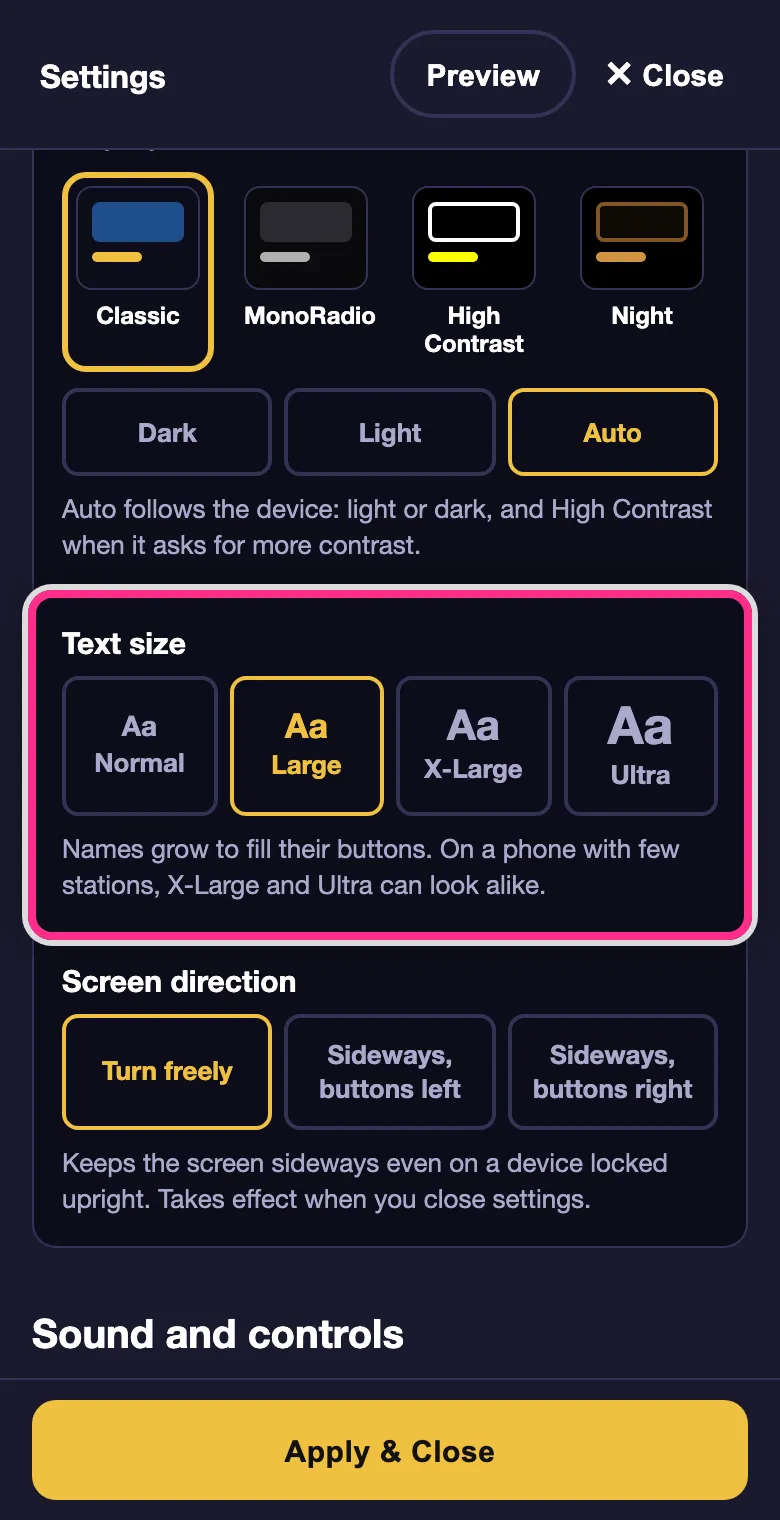
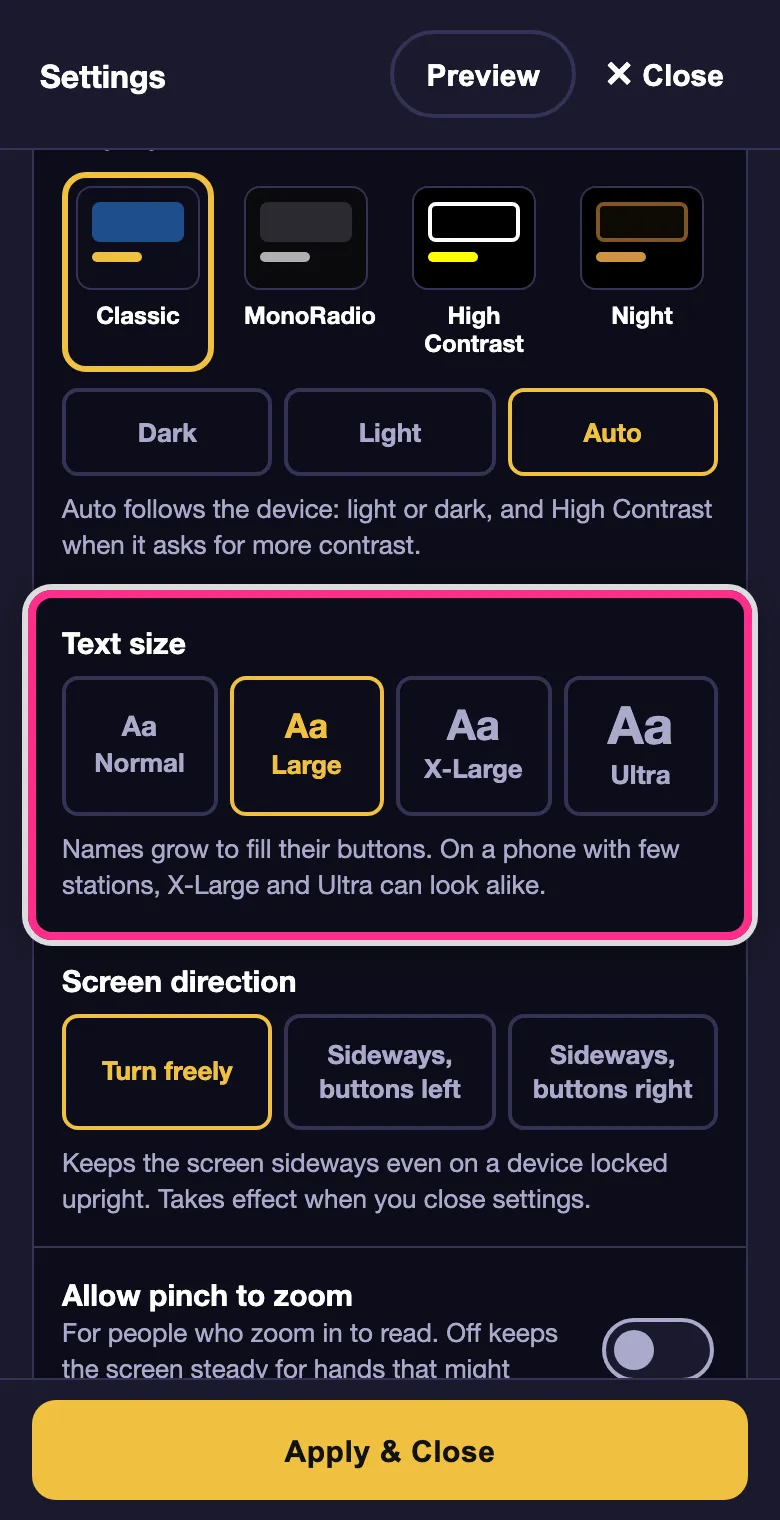
radio: sync RadioGridXL v7.22.0 (b3de25e)

diff --git a/public/radio/index.html b/public/radio/index.html
@@ -3,7 +3,7 @@
 <head>
 <meta charset="UTF-8">
 <meta http-equiv="Content-Security-Policy" content="default-src 'self'; object-src 'none'; script-src 'self' 'unsafe-inline'; style-src 'self' 'unsafe-inline'; img-src 'self' data:; media-src http: https: blob:; connect-src 'self' https://*.api.radio-browser.info; frame-src https://marsh.city; base-uri 'none'; form-action 'none'">
-<meta name="viewport" content="width=device-width, initial-scale=1.0, maximum-scale=1.0, user-scalable=no, viewport-fit=cover">
+<meta name="viewport" id="viewport-meta" content="width=device-width, initial-scale=1.0, maximum-scale=1.0, user-scalable=no, viewport-fit=cover">
 <!-- PWA shell: relative manifest href keeps the file fully self-contained (no http URLs). -->
 <link rel="manifest" href="manifest.json">
 <meta name="theme-color" content="#0d0d1a">
@@ -572,6 +572,27 @@ html.is-desktop:not(.fill-view) #platform-badge { display: block; }
 
 
 /* --- HEADER --- */
+
+#settings-btn {
+  display: flex;
+  align-items: center;
+  gap: 6px;
+  min-height: 44px;
+  min-width: 44px;
+  padding: 0 14px;
+  margin-left: 12px;
+  border-radius: 10px;
+  border: 2px solid var(--header-text);
+  background: transparent;
+  color: var(--header-text);
+  font: inherit;
+  font-size: 16px;
+  font-weight: 700;
+  cursor: pointer;
+}
+#settings-btn[hidden] { display: none; } /* display:flex above would beat the hidden attribute */
+#settings-btn svg { width: 20px; height: 20px; flex-shrink: 0; }
+#settings-btn:focus-visible { outline: 3px solid var(--header-text); outline-offset: 2px; }
 
 #header {
   display: flex;
@@ -1199,6 +1220,14 @@ html[data-size="ultra"] #simple-stop-label { font-size: 32px; }
   right: calc(18px + env(safe-area-inset-right, 0px));
 }
 #adv-transport.has-playing .adv-sleep-btn { color: var(--stop-active-text); }
+/* A recording shows Back and Skip too, and on a phone that row ran under the
+   sleep button (it overlaps up to about 490 px in Chromium; the margin is for
+   other engines' fonts). There the bar grows a second row for Sleep alone,
+   so every control keeps its name. Live radio shows no skip and keeps one row. */
+@media (max-width: 539px) {
+  #adv-transport.skippable { padding-bottom: calc(10px + 54px + env(safe-area-inset-bottom, 0px)); }
+  #adv-transport.skippable .adv-sleep-btn { bottom: calc(6px + env(safe-area-inset-bottom, 0px)); }
+}
 
 /* Skip action toast (e.g. "Back 15s") */
 #skip-toast {
@@ -2171,7 +2200,7 @@ html.theme-fading, html.theme-fading * {
 @media (max-height: 520px) {
   .stream-browser-results { flex: none; max-height: none; min-height: 0; overflow-y: visible; }
 }
-.stream-browser-title:focus { outline: none; } /* focused by script only, never by Tab */
+.stream-browser-title:focus, #settings-title:focus { outline: none; } /* focused by script only, never by Tab */
 .stream-browser-title {
   font-size: 15px;
   font-weight: 700;
@@ -2674,7 +2703,8 @@ html.theme-fading, html.theme-fading * {
       <svg id="logo-svg" viewBox="0 0 100 100" xmlns="http://www.w3.org/2000/svg" aria-hidden="true"></svg>
       <h1 id="org-name">RadioGridXL</h1>
     </div>
-    <div id="conn-dot" role="status" aria-live="polite" aria-label="Connection: idle"><span id="conn-text" class="sr-only">Connection: idle</span></div>
+    <div id="conn-dot" aria-hidden="true"></div>
+    <span id="conn-text" class="sr-only" role="status" aria-live="polite">Connection: idle</span>
     <!-- Not a live region: a screen reader reads the time left when someone
          swipes to it, from text updated once a minute. The ticking seconds
          are hidden from it, or it would read them out over the radio. That
@@ -2684,6 +2714,10 @@ html.theme-fading, html.theme-fading * {
     <!-- Confirms setting or cancelling the timer, once. Never written when the timer ends. -->
     <span id="sleep-status" class="sr-only" role="status" aria-live="polite"></span>
     <span id="platform-badge" aria-hidden="true">Desktop Preview</span>
+    <!-- Shown by the "Show a Settings button" switch: one tap into settings
+         (through the PIN pad when there's a PIN) for anyone who can't do
+         five taps on the logo, such as a switch or voice user. -->
+    <button type="button" id="settings-btn" hidden onclick="requestSettings()"><svg viewBox="0 0 24 24" aria-hidden="true" focusable="false"><path fill="currentColor" d="M19.4 13a7.6 7.6 0 0 0 0-2l2.1-1.6-2-3.5-2.5 1a7.4 7.4 0 0 0-1.7-1L15 3.3h-4l-.4 2.6a7.4 7.4 0 0 0-1.7 1l-2.5-1-2 3.5L6.6 11a7.6 7.6 0 0 0 0 2l-2.1 1.6 2 3.5 2.5-1a7.4 7.4 0 0 0 1.7 1l.4 2.6h4l.4-2.6a7.4 7.4 0 0 0 1.7-1l2.5 1 2-3.5zM13 15.5a3.5 3.5 0 1 1 0-7 3.5 3.5 0 0 1 0 7z" transform="translate(-1 0)"/></svg>Settings</button>
   </header>
 
   <!-- ========== STREAM BUTTONS (rendered by JS) ========== -->
@@ -2788,7 +2822,7 @@ html.theme-fading, html.theme-fading * {
   <!-- ========== SETTINGS PANEL (technician only) ========== -->
   <aside id="settings-panel" role="dialog" aria-labelledby="settings-title" aria-modal="true">
     <div id="settings-header">
-      <span id="settings-title">Settings</span>
+      <span id="settings-title" tabindex="-1">Settings</span>
       <div id="settings-header-actions">
         <button id="settings-preview" onclick="startPreview()">Preview</button>
         <button id="settings-close" onclick="closeSettings()" aria-label="Close settings"><span aria-hidden="true">&#215;</span><span class="close-word" aria-hidden="true">Close</span></button>
@@ -2873,6 +2907,14 @@ html.theme-fading, html.theme-fading * {
           </div>
           <div class="s-hint">Keeps the screen sideways even on a device locked upright. Takes effect when you close settings.</div>
         </div>
+
+        <div class="s-section s-switch-row">
+          <div class="s-switch-text" aria-hidden="true">
+            <div class="s-section-title" id="zoom-label">Allow pinch to zoom</div>
+            <div class="s-hint" id="zoom-hint">For people who zoom in to read. Off keeps the screen steady for hands that might pinch by accident.</div>
+          </div>
+          <button type="button" class="s-switch" role="switch" data-switch="zoom" aria-checked="false" aria-labelledby="zoom-label" aria-describedby="zoom-hint" onclick="toggleSwitch(this)"><span class="s-switch-knob"></span></button>
+        </div>
       </div>
     </section>
 
@@ -2940,6 +2982,14 @@ html.theme-fading, html.theme-fading * {
     <section class="s-group">
       <h2 class="s-group-title" id="g-setup">Setup</h2>
       <div class="s-card">
+        <div class="s-section s-switch-row">
+          <div class="s-switch-text" aria-hidden="true">
+            <div class="s-section-title" id="settingsbtn-label">Show a Settings button</div>
+            <div class="s-hint" id="settingsbtn-hint">For people setting up their own radio by voice, switch or screen reader. Set a PIN if the listener shouldn't change things.</div>
+          </div>
+          <button type="button" class="s-switch" role="switch" data-switch="settingsButton" aria-checked="false" aria-labelledby="settingsbtn-label" aria-describedby="settingsbtn-hint" onclick="toggleSwitch(this)"><span class="s-switch-knob"></span></button>
+        </div>
+
         <div class="s-section">
           <label class="s-section-title" for="in-org-name">Name in the header</label>
           <textarea class="s-input" id="in-org-name" rows="2" maxlength="80" style="resize:none;font-family:inherit;" aria-describedby="org-hint" oninput="previewOrgName()" onfocus="caretToEnd(this)"></textarea>
@@ -3006,7 +3056,7 @@ html.theme-fading, html.theme-fading * {
         </div>
       </div>
       <button id="reset-btn" onclick="confirmReset()">Reset to Defaults</button>
-      <div id="settings-version">RadioGridXL v7.21.1</div>
+      <div id="settings-version">RadioGridXL v7.22.0</div>
       <!-- Who made it, from PROFILE.madeBy; plain text, never a link (promise-stays-radio). -->
       <div id="settings-credit" hidden></div>
     </section>
@@ -3255,6 +3305,8 @@ const cfg = {
   tts: 'off',
   chime: 'on',
   resume: 'off',
+  zoom: 'off',
+  settingsButton: 'off',
   preset: 'Standard',
   orientation: PROFILE.orientation || 'auto',
   streams: JSON.parse(JSON.stringify(PROFILE.streams))
@@ -3371,8 +3423,7 @@ function init() {
 
   // Apply max volume cap
   audio.volume = cfg.volume / 100;
-  document.getElementById('vol-slider').value = cfg.volume;
-  document.getElementById('vol-val').textContent = cfg.volume + '%';
+  showVolume();
 
   // Desktop-specific adjustments. (There is no longer a volume overlay — the
   // volume control lives in Settings — so don't reference the removed
@@ -3527,6 +3578,8 @@ function validateConfig(s) {
   if (['on', 'off'].includes(s.tts))                    out.tts = s.tts;
   if (['on', 'off'].includes(s.chime))                  out.chime = s.chime;
   if (['on', 'off'].includes(s.resume))                 out.resume = s.resume;
+  if (['on', 'off'].includes(s.zoom))                   out.zoom = s.zoom;
+  if (['on', 'off'].includes(s.settingsButton))         out.settingsButton = s.settingsButton;
   // Accessibility preset name. Allowlist = built-in preset names + 'custom'.
   // Unknown/legacy values are simply omitted (fall back to the 'Standard'
   // default) — purely a UI highlight hint, never drives behavior on its own.
@@ -3629,6 +3682,8 @@ function saveSettings() {
       tts: cfg.tts,
       chime: cfg.chime,
       resume: cfg.resume,
+      zoom: cfg.zoom,
+      settingsButton: cfg.settingsButton,
       preset: cfg.preset,
       orientation: cfg.orientation,
       streams: cfg.streams
@@ -3724,7 +3779,19 @@ function applyTheme() {
     themeColorMeta.setAttribute('content', headerBg || DEFAULT_THEME_COLOR);
   }
   document.documentElement.setAttribute('data-size', cfg.size);
+  applyAccessOptions(); // every load, apply, revert, import and reset path runs through here
   renderButtons();
+}
+
+const FIXED_VIEWPORT = 'width=device-width, initial-scale=1.0, maximum-scale=1.0, user-scalable=no, viewport-fit=cover';
+const ZOOMABLE_VIEWPORT = 'width=device-width, initial-scale=1.0, viewport-fit=cover';
+
+/** The two Setup switches that change the page itself: pinch-zoom (the
+    viewport, rewritten live; browsers re-read it) and the header's Settings
+    button. */
+function applyAccessOptions() {
+  document.getElementById('viewport-meta').setAttribute('content', cfg.zoom === 'on' ? ZOOMABLE_VIEWPORT : FIXED_VIEWPORT);
+  document.getElementById('settings-btn').hidden = cfg.settingsButton !== 'on';
 }
 
 /** Where to change the speaking voice on this device. Only the APK has an
@@ -4296,6 +4363,12 @@ function updateSkipButtons() {
   const skippable = canSkip();
   skipBackBtn.style.display = skippable ? '' : 'none';
   skipFwdBtn.style.display = skippable ? '' : 'none';
+  // On a phone a recording's bar is taller (see the .skippable CSS), so the
+  // grid is re-sized to the bar's new height, only when that changes.
+  if (advTransport.classList.contains('skippable') !== skippable) {
+    advTransport.classList.toggle('skippable', skippable);
+    renderButtons();
+  }
   // LIVE means live audio is coming in, so it hides while paused.
   liveBadge.classList.toggle('visible', !!playing && !paused && !skippable);
 }
@@ -5041,16 +5114,18 @@ const CONN_LABELS = {
 };
 
 /** `message` replaces the standard label, for a sentence worth announcing
-    (a station that has stopped working). The text lives in an .sr-only span:
-    zero-size text inside the 8px dot may never be voiced.
+    (a station that has stopped working). The dot only shows the colour; the
+    words are a separate .sr-only status beside it. Inside the 8px dot Safari
+    never exposed them: with an aria-label too, macOS VoiceOver read
+    "Connection: idle empty application status", and without one it skipped
+    the dot and stopped there.
     While connQuiet is set (the sleep timer ending) the dot stops being a live
     region before its text changes, so no "Connection: idle" wakes anyone. It
     stays quiet until the next change, which turns it back on first. */
 function setConnStatus(status, message) {
   connDot.className = status === 'idle' ? '' : status;
   var label = message || CONN_LABELS[status] || CONN_LABELS.idle;
-  connDot.setAttribute('aria-live', connQuiet ? 'off' : 'polite');
-  connDot.setAttribute('aria-label', label);
+  connText.setAttribute('aria-live', connQuiet ? 'off' : 'polite');
   connText.textContent = label;
 }
 
@@ -5539,8 +5614,17 @@ function setVolume(val) {
   // Don't fight an in-progress fade; otherwise apply the effective volume
   // (max × current stream's gain trim) immediately so the slider is live.
   if (!fadeTimer) audio.volume = targetVolume();
+  showVolume();
+}
+
+/** Put cfg.volume on the slider, its label and its spoken value together:
+    a value set without the spoken text left screen readers reading the old
+    one (after a Discard) or a bare "100.0" (on open). */
+function showVolume() {
+  var slider = document.getElementById('vol-slider');
+  slider.value = cfg.volume;
+  slider.setAttribute('aria-valuetext', cfg.volume + ' percent');
   document.getElementById('vol-val').textContent = cfg.volume + '%';
-  document.getElementById('vol-slider').setAttribute('aria-valuetext', cfg.volume + ' percent');
 }
 
 
@@ -5604,8 +5688,7 @@ function openSettings() {
   document.getElementById('settings-body').scrollTop = 0;
 
   // Sync volume slider with current value
-  document.getElementById('vol-slider').value = cfg.volume;
-  document.getElementById('vol-val').textContent = cfg.volume + '%';
+  showVolume();
 
   // Sync org name textarea
   document.getElementById('in-org-name').value = cfg.orgName;
@@ -5624,10 +5707,12 @@ function openSettings() {
   syncChips();
   quietSync = false;
 
-  // Focus trap + move focus to the close button for keyboard users
+  // Focus trap + move focus to the title, so a screen reader starts at
+  // "Settings" and swipes on through Preview and Close (landing on Close
+  // skipped both). Tab from the title goes on to Preview.
   panel._focusTrap = function(e) { trapFocus(e, panel); };
   panel.addEventListener('keydown', panel._focusTrap);
-  requestAnimationFrame(() => document.getElementById('settings-close').focus());
+  requestAnimationFrame(() => document.getElementById('settings-title').focus());
   startSettingsIdle();
 }
 
@@ -5640,7 +5725,7 @@ function hasUnsavedChanges() {
   if (orgVal !== cfgSnapshot.orgName) return true;
   // No 'preset': it's derived from the fields compared here, so it can only
   // differ when they do (or when it's stale, which isn't a change).
-  for (var k of ['theme', 'size', 'fillview', 'advanced', 'haptics', 'tts', 'chime', 'resume', 'orientation']) {
+  for (var k of ['theme', 'size', 'fillview', 'advanced', 'haptics', 'tts', 'chime', 'resume', 'zoom', 'settingsButton', 'orientation']) {
     if (cfg[k] !== cfgSnapshot[k]) return true;
   }
   if (cfg.volume !== cfgSnapshot.volume) return true;
@@ -5685,6 +5770,8 @@ function doCloseSettings() {
     cfg.tts = cfgSnapshot.tts;
     cfg.chime = cfgSnapshot.chime;
     cfg.resume = cfgSnapshot.resume;
+    cfg.zoom = cfgSnapshot.zoom;
+    cfg.settingsButton = cfgSnapshot.settingsButton;
     cfg.preset = cfgSnapshot.preset;
     cfg.orientation = cfgSnapshot.orientation;
     cfg.streams = cfgSnapshot.streams;
@@ -6019,6 +6106,7 @@ function toggleSwitch(sw) {
   var group = sw.dataset.switch;
   cfg[group] = cfg[group] === 'on' ? 'off' : 'on';
   syncChips();
+  applyAccessOptions();
 }
 
 /** Handle a chip selection — update config, aria state, and apply visual changes. */
@@ -7745,6 +7833,8 @@ function buildBackupPayload(includePin) {
     tts: cfg.tts,
     chime: cfg.chime,
     resume: cfg.resume,
+    zoom: cfg.zoom,
+    settingsButton: cfg.settingsButton,
     preset: cfg.preset,
     orientation: cfg.orientation,
     streams: cfg.streams
@@ -7824,8 +7914,7 @@ function applyImportedConfig(sanitized, pin) {
   if (!fadeTimer) audio.volume = targetVolume();
 
   // If the settings panel is open, refresh its live inputs too.
-  document.getElementById('vol-slider').value = cfg.volume;
-  document.getElementById('vol-val').textContent = cfg.volume + '%';
+  showVolume();
   document.getElementById('in-org-name').value = cfg.orgName;
   // The field must hold the PIN now in force (the device's, or the one the
   // backup just restored). A blank field here made the next Apply remove it.
@@ -7954,6 +8043,8 @@ function executeReset() {
   cfg.tts = 'off';
   cfg.chime = 'on';
   cfg.resume = 'off';
+  cfg.zoom = 'off';
+  cfg.settingsButton = 'off';
   cfg.orientation = PROFILE.orientation || 'auto';
   cfg.streams = JSON.parse(JSON.stringify(PROFILE.streams));
   cfg.preset = matchingPresetName();
@@ -8162,9 +8253,15 @@ document.getElementById('logo-area').addEventListener('click', function (e) {
   if (tapCount >= 5) {
     tapCount = 0;
     clearTimeout(tapTimer);
-    if (getPin()) { showPinOverlay(); } else { openSettings(); }
+    requestSettings();
   }
 });
+
+/** The way into settings, from the logo or the Settings button: through
+    the PIN pad (and its lockout) whenever a PIN is set. */
+function requestSettings() {
+  if (getPin()) { showPinOverlay(); } else { openSettings(); }
+}
 
 // Also allow Enter/Space on logo area for keyboard users
 document.getElementById('logo-area').addEventListener('keydown', function (e) {

diff --git a/public/radio/sw.js b/public/radio/sw.js
@@ -5,7 +5,7 @@
    it sat at v1 from 7.5.0). Keep it in lockstep with the version-bump routine.
    The server sends sw.js no-cache, so each load refetches this file and the
    install→activate purge cycle kicks in. */
-const CACHE_VERSION = 'rgxl-shell-7.21.1-20a19306';
+const CACHE_VERSION = 'rgxl-shell-7.22.0-34711aed';
 
 /* Shell assets, relative to the SW scope (the directory it's served from).
    start_url is "." so the HTML is reachable both as "./" and by filename.

diff --git a/src/content/guides/radiogridxl.md b/src/content/guides/radiogridxl.md
@@ -1,7 +1,7 @@
 ---
 title: How to use RadioGridXL
 description: Open settings, change and add stations, pick a theme, and set it up for someone who just wants to press a button and hear music.
-appVersion: 7.21.1
+appVersion: 7.22.0
 ---
 
 RadioGridXL is built for the person listening: big buttons, one per station, nothing else to figure out. Everything you can change is tucked away in a hidden settings panel, so the listener never lands there by accident.
@@ -17,6 +17,8 @@ Tap a station to play it, and tap it again to pause. The dot next to the name at
 ## Open settings
 
 Settings are hidden on purpose. To open them, **tap the logo in the top corner 5 times quickly**, within about two seconds. The logo is outlined on the screenshot above.
+
+If five quick taps are hard, say for someone setting up their own radio with a switch, by voice or with a screen reader, turn on **Show a Settings button** at the top of **Setup**. A **Settings** button then sits in the top corner and opens settings with one tap (it still asks for the PIN when there is one). Five taps on the logo keep working too. The button is easy for the listener to find too, so set a PIN if they shouldn't change things.
 
 ![The settings panel, open over the station buttons](/images/radiogridxl/guide/settings-open.webp)
 
@@ -128,6 +130,10 @@ Pick the closest one, then fine-tune anything below it. Once you change somethin
 
 **Text size** has Normal, Large, X-Large and Ultra, each showing how big it is. Ultra is the largest, which suits a tablet across the room.
 
+### Zoom
+
+**Allow pinch to zoom**, at the end of **Look**, lets the listener pinch the screen to make everything bigger, for anyone who zooms in to read. It's off unless you turn it on, so a hand that pinches by accident can't leave the radio zoomed in. The zoom built into the phone or tablet itself (Zoom on iPhone and iPad, Magnification on Android) works either way.
+
 Under **Sound and controls** are switches: **Voice announcements** (speaks "Now playing…" and so on aloud), **Audio tones** (a short chime when playback starts or stops), **Auto-resume** (when the app opens, starts the station again if it was playing when the app closed) and **Haptic feedback** (a small buzz on tap, on Android phones and tablets only; elsewhere it's greyed out with the reason).
 
 ### Use it by voice
@@ -142,6 +148,7 @@ Buttons can also be pressed by what they show:
 
 - "Tap" and a station's full name, such as "Tap Jazz 88", plays it. While a station is paused, use its number to resume it.
 - "Tap Stop" stops the station. With Advanced controls, "Tap Pause", "Tap Sleep", and for recordings "Tap Back 15" and "Tap Skip 30".
+- "Tap Settings" opens settings, if **Show a Settings button** is on.
 - "Show names" labels every button with what to say.
 
 For saying stations by name, give each one a short name that's easy to say and different from the others. Settings warns when two stations share a name, or when a station is named like a button, such as Stop.

diff --git a/src/content/projects/radiogridxl.md b/src/content/projects/radiogridxl.md
@@ -83,6 +83,9 @@ flowchart TD
 
 ## Updates
 
+### 2026-11-09
+Released v7.22.0, with two new switches in Settings for whoever sets a radio up. Allow pinch to zoom, under Look, lets someone who zooms in to read pinch the stations bigger. It's off unless you turn it on. Show a Settings button, under Setup, puts a Settings button in the top corner for people setting up their own radio by switch, voice or screen reader, where five quick taps on the logo are hard. It still asks for the PIN, so set one if the listener shouldn't change things. On phones, a recording's controls get a second row, so Back, Pause, Stop and Skip share one line with Sleep below. VoiceOver reads the connection status without saying "empty", opening Settings puts focus on its title, and the volume slider always says its current value.
+
 ### 2026-11-08
 Released v7.21.0, so a station can be played by saying its name. With Voice Control, "Tap Jazz 88" now plays Jazz 88. Each station button used to carry extra words in its hidden name, like "Play" and its description, which nobody would say out loud. Now the name is just the station, and VoiceOver reads the description after it. Numbers still work for every button and stay the first suggestion in the guide.
 
